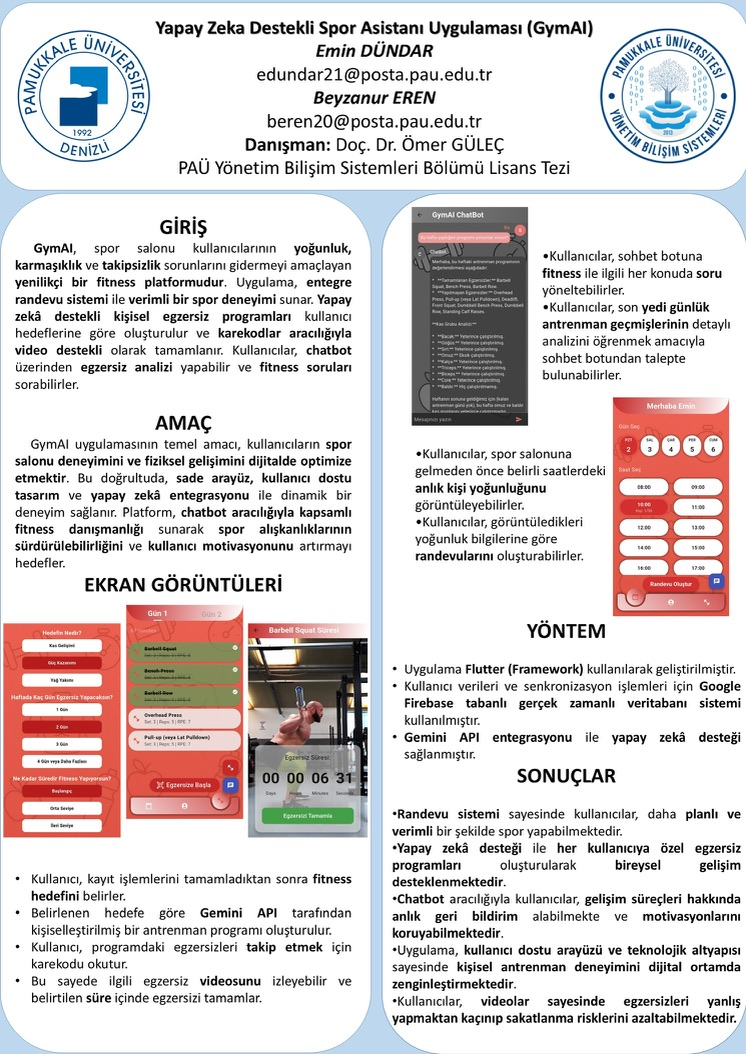
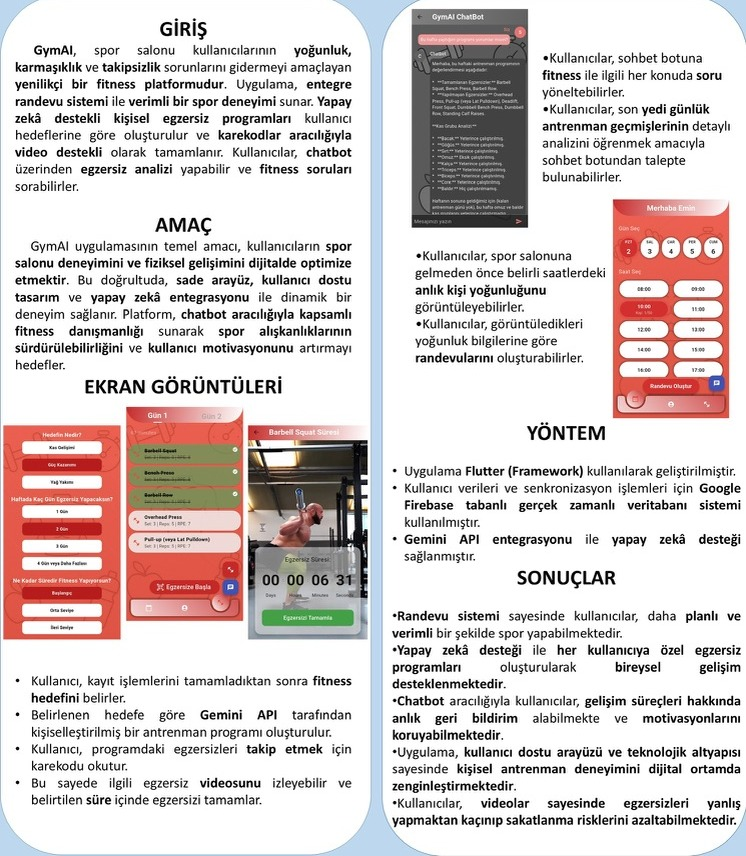
fix(case): crop thesis poster header, localized gallery alt text, new-tab cue, cursor scale init

diff --git a/content/projects.test.ts b/content/projects.test.ts
@@ -37,7 +37,7 @@ const metas = slugs.map((slug) => JSON.parse(readFileSync(join(dir, `${slug}.met
   featured?: boolean;
   order: number;
   cover?: { src: string };
-  gallery?: string[];
+  gallery?: { src: string; alt: { en: string; tr: string } }[];
 });
 
 describe("project content cross-references", () => {
@@ -49,15 +49,23 @@ describe("project content cross-references", () => {
     const manifest = JSON.parse(readFileSync("lib/media-manifest.json", "utf8")) as Record<string, unknown>;
     for (const m of metas) if (m.cover) expect(Object.keys(manifest), m.slug).toContain(m.cover.src);
   });
-  it("every gallery base is an image entry in the media manifest with its file on disk", () => {
+  it("every gallery image is in the media manifest with its file on disk and a distinct alt per locale", () => {
     const manifest = JSON.parse(readFileSync("lib/media-manifest.json", "utf8")) as Record<string, { widths?: number[] }>;
     for (const m of metas)
-      for (const base of m.gallery ?? []) {
-        const widths = manifest[base]?.widths ?? [];
-        expect(widths.length, `${m.slug}: ${base}`).toBeGreaterThan(0);
-        for (const w of widths) expect(existsSync(join("public", `${base}-${w}.webp`)), `${base}-${w}.webp`).toBe(true);
+      for (const g of m.gallery ?? []) {
+        const widths = manifest[g.src]?.widths ?? [];
+        expect(widths.length, `${m.slug}: ${g.src}`).toBeGreaterThan(0);
+        for (const w of widths) expect(existsSync(join("public", `${g.src}-${w}.webp`)), `${g.src}-${w}.webp`).toBe(true);
+        expect(g.alt.en.length, `${g.src} alt.en`).toBeGreaterThanOrEqual(5);
+        expect(g.alt.tr.length, `${g.src} alt.tr`).toBeGreaterThanOrEqual(5);
+        expect(g.alt.tr, `${g.src}: tr alt is a translation`).not.toBe(g.alt.en);
       }
-    expect(metas.find((m) => m.slug === "gymai")?.gallery).toEqual(["/media/gymai/poster", "/media/gymai/screens-right"]);
+    expect(metas.find((m) => m.slug === "gymai")?.gallery?.map((g) => g.src)).toEqual(["/media/gymai/poster", "/media/gymai/screens-right"]);
+  });
+  it("gymai thesis poster is the cropped one (header with names and e-mail addresses cut off)", () => {
+    // The uncropped 746×1054 source renders at 640×904; the crop starts below the header block.
+    const manifest = JSON.parse(readFileSync("lib/media-manifest.json", "utf8")) as Record<string, { height: number }>;
+    expect(manifest["/media/gymai/poster"]?.height).toBeLessThan(900);
   });
   it("featured set is geotrack, kipgoz, gymai, karaoke-sync", () => {
     expect(metas.filter((m) => m.featured).map((m) => m.slug).sort()).toEqual(["geotrack", "gymai", "karaoke-sync", "kipgoz"]);

diff --git a/app/[locale]/work/[slug]/page.tsx b/app/[locale]/work/[slug]/page.tsx
@@ -16,8 +16,8 @@ import { CaseNav } from "@/components/case/CaseNav";
 
 type Props = { params: Promise<{ locale: string; slug: string }> };
 
-// Every case page is complete static output. For a slug that was not prerendered the request waits for the full
-// render instead of streaming into a 200 fallback shell, so `notFound()` below is a real 404 status.
+// Forces the whole route to be prerendered; with cacheComponents this also makes unknown slugs return a real 404
+// (pinned by e2e/case.spec.ts).
 export const ensureStatic = "navigation";
 
 export function generateStaticParams() {
@@ -59,11 +59,11 @@ export default async function CasePage({ params }: Props) {
           {t("fallbackNote")}
         </p>
       )}
-      {/* The <h1> stays above the cover: it is the LCP element, the cover never is on a video case. */}
+      {/* The <h1> stays above the cover and is the LCP element; the cover is never fetched with priority. */}
       <CaseHeader project={project} facetLabels={facetLabels} />
       <div className={HERO_BOX}>
         <ViewTransition name={`cover-${project.slug}`} share="morph" default="none">
-          <MediaCover project={project} kind="hero" facetLabels={facetLabels} priority={project.cover?.type === "image"} />
+          <MediaCover project={project} kind="hero" facetLabels={facetLabels} />
         </ViewTransition>
       </div>
       <div className="mt-12 grid gap-12 md:mt-16 md:grid-cols-12 md:gap-x-6">
@@ -72,7 +72,7 @@ export default async function CasePage({ params }: Props) {
         </article>
         <CaseAside project={project} className="md:col-span-4" />
       </div>
-      {project.gallery && <CaseGallery title={project.title} bases={project.gallery} />}
+      {project.gallery && <CaseGallery items={project.gallery} locale={locale} />}
       <CaseNav prev={all[idx - 1]} next={all[idx + 1]} />
     </main>
   );

diff --git a/content/schema.test.ts b/content/schema.test.ts
@@ -56,10 +56,15 @@ describe("projectMetaSchema", () => {
   it("rejects cover.src with a file extension", () => {
     expect(projectMetaSchema.safeParse({ ...valid, cover: { type: "image", src: "/media/geotrack/cover.webp", frame: "phone" } }).success).toBe(false);
   });
-  it("accepts a gallery of media bases and rejects extensions or an empty list", () => {
-    const ok = projectMetaSchema.safeParse({ ...valid, gallery: ["/media/gymai/poster", "/media/gymai/screens-right"] });
-    expect(ok.success).toBe(true);
-    expect(projectMetaSchema.safeParse({ ...valid, gallery: ["/media/gymai/poster-640.webp"] }).success).toBe(false);
+  it("accepts a gallery of { src, alt per locale } and rejects extensions, missing or short alts, or an empty list", () => {
+    const alt = { en: "Thesis poster", tr: "Tez posteri" };
+    const item = { src: "/media/gymai/poster", alt };
+    expect(projectMetaSchema.safeParse({ ...valid, gallery: [item, { src: "/media/gymai/screens-right", alt }] }).success).toBe(true);
+    expect(projectMetaSchema.safeParse({ ...valid, gallery: [{ ...item, src: "/media/gymai/poster-640.webp" }] }).success).toBe(false);
+    expect(projectMetaSchema.safeParse({ ...valid, gallery: ["/media/gymai/poster"] }).success).toBe(false);
+    expect(projectMetaSchema.safeParse({ ...valid, gallery: [{ src: item.src }] }).success).toBe(false);
+    expect(projectMetaSchema.safeParse({ ...valid, gallery: [{ src: item.src, alt: { en: "Thesis poster" } }] }).success).toBe(false);
+    expect(projectMetaSchema.safeParse({ ...valid, gallery: [{ src: item.src, alt: { en: "abc", tr: "Tez posteri" } }] }).success).toBe(false);
     expect(projectMetaSchema.safeParse({ ...valid, gallery: [] }).success).toBe(false);
     expect(projectMetaSchema.parse(valid).gallery).toBeUndefined();
   });

diff --git a/components/case/CaseGallery.tsx b/components/case/CaseGallery.tsx
@@ -1,24 +1,26 @@
 import { getTranslations } from "next-intl/server";
+import type { Locale } from "@/i18n/routing";
+import type { Project } from "@/lib/content";
 import { imageFor } from "@/lib/media";
 
 /** Extra stills below the body. Images keep their intrinsic width (never upscaled), centered in a bordered box. */
-export async function CaseGallery({ title, bases }: { title: string; bases: string[] }) {
+export async function CaseGallery({ items, locale }: { items: NonNullable<Project["gallery"]>; locale: Locale }) {
   const t = await getTranslations("Case");
-  const images = bases.flatMap((base) => {
-    const img = imageFor(base);
-    return img ? [{ base, ...img }] : [];
+  const images = items.flatMap((item) => {
+    const img = imageFor(item.src);
+    return img ? [{ base: item.src, alt: item.alt[locale], ...img }] : [];
   });
   if (images.length === 0) return null;
   return (
     <section data-case-gallery aria-label={t("gallery")} className="mt-16 grid gap-4 border-t border-line pt-4 sm:grid-cols-2">
-      {images.map((img, i) => (
+      {images.map((img) => (
         <figure key={img.base} className="m-0 flex items-center justify-center border border-line bg-surface p-4 md:p-8">
           {/* eslint-disable-next-line @next/next/no-img-element -- pre-generated responsive set */}
           <img
             src={img.src}
             srcSet={img.srcSet}
             sizes="(min-width: 640px) 50vw, 100vw"
-            alt={`${title} — ${i + 1}`}
+            alt={img.alt}
             width={img.width}
             height={img.height}
             loading="lazy"

diff --git a/e2e/case.spec.ts b/e2e/case.spec.ts
@@ -20,7 +20,7 @@ test.describe("/work/[slug]", () => {
     const repos = page.getByRole("link", { name: /repository/i });
     await expect(repos).toHaveCount(4);
     await expect(repos.first()).toHaveAttribute("href", /github\.com\/emindundar\/map_tracking$/);
-    const named = page.getByRole("link", { name: "Repository: map_tracking", exact: true });
+    const named = page.getByRole("link", { name: "Repository: map_tracking (opens in a new tab)", exact: true });
     await expect(named).toHaveAttribute("target", "_blank");
     await expect(named).toHaveAttribute("rel", "noreferrer noopener");
     await page.goto("/en/work/karaoke-sync");
@@ -72,7 +72,10 @@ test.describe("/work/[slug]", () => {
     await expect(page.locator("[data-case-credits]")).toContainText("Pamukkale");
     const gallery = page.locator("[data-case-gallery] img");
     await expect(gallery).toHaveCount(2);
-    await expect(gallery.first()).toHaveAttribute("alt", /— 1$/);
+    await expect(gallery.first()).toHaveAttribute("alt", "GymAI tez posteri: amaç, yöntem ve sonuç bölümleri");
+    await page.goto("/en/work/gymai");
+    await expect(gallery.first()).toHaveAttribute("alt", "GymAI thesis poster: goal, method and results sections");
+    await expect(gallery.last()).toHaveAttribute("alt", "GymAI screens: fitness chatbot and gym occupancy with appointment booking");
     await expect(gallery.first()).toHaveAttribute("loading", "lazy");
   });
 

diff --git a/components/case/CaseAside.tsx b/components/case/CaseAside.tsx
@@ -12,11 +12,12 @@ function repoName(url: string): string {
   return new URL(url).pathname.split("/").filter(Boolean).pop() ?? url;
 }
 
-function External({ href, children }: { href: string; children: React.ReactNode }) {
+function External({ href, newTab, children }: { href: string; newTab: string; children: React.ReactNode }) {
   return (
     <a href={href} target="_blank" rel="noreferrer noopener" className={LINK}>
       {children}
       <span aria-hidden="true">↗</span>
+      <span className="sr-only"> ({newTab})</span>
     </a>
   );
 }
@@ -68,14 +69,14 @@ export async function CaseAside({ project, className }: { project: Project; clas
           <ul className="m-0 mt-1 list-none p-0">
             {links.repo?.map((href) => (
               <li key={href}>
-                <External href={href}>
+                <External href={href} newTab={t("newTab")}>
                   {t("repo")}: {repoName(href)}
                 </External>
               </li>
             ))}
             {single.map(({ key, href }) => (
               <li key={key}>
-                <External href={href}>
+                <External href={href} newTab={t("newTab")}>
                   {t(key)}: {new URL(href).host}
                 </External>
               </li>

diff --git a/e2e/cursor.spec.ts b/e2e/cursor.spec.ts
@@ -3,10 +3,22 @@ import { test, expect } from "@playwright/test";
 test.describe("custom cursor", () => {
   test("desktop with motion: cursor root exists and body opts out of native cursor", async ({ page, isMobile }) => {
     test.skip(isMobile, "fine pointer only");
+    const resetWarnings: string[] = [];
+    page.on("console", (m) => {
+      if (/not eligible for reset/i.test(m.text())) resetWarnings.push(m.text());
+    });
     await page.emulateMedia({ reducedMotion: "no-preference" });
     await page.goto("/en");
     await expect(page.locator("[data-cursor-root]")).toHaveCount(1);
     await expect(page.locator("body")).toHaveAttribute("data-cursor", "custom");
+    // Moving onto a link scales the ring; GSAP must not warn about an unset starting scale.
+    const link = page.getByRole("link", { name: /explore work/i });
+    await page.mouse.move(5, 300);
+    await link.hover();
+    await expect
+      .poll(() => page.locator("[data-cursor-root] > div").last().evaluate((el) => new DOMMatrix(getComputedStyle(el).transform).a))
+      .toBeGreaterThan(1.5);
+    expect(resetWarnings).toEqual([]);
   });
 
   test("mobile (coarse pointer): no custom cursor", async ({ page, isMobile }) => {

diff --git a/components/motion/Cursor.tsx b/components/motion/Cursor.tsx
@@ -30,7 +30,15 @@ export function Cursor() {
       const dy = gsap.quickTo(dotEl, "y", { duration: 0.08 });
       const rx = gsap.quickTo(ringEl, "x", { duration: 0.35, ease: "power3.out" });
       const ry = gsap.quickTo(ringEl, "y", { duration: 0.35, ease: "power3.out" });
-      const scaleTo = gsap.quickTo(ringEl, "scale", { duration: 0.25 });
+      // quickTo drives one numeric property; "scale" is an alias for two, which GSAP rejects
+      // ("scale not eligible for reset") and then never scales. Hence one setter per axis.
+      gsap.set(ringEl, { scale: 1 });
+      const sx = gsap.quickTo(ringEl, "scaleX", { duration: 0.25 });
+      const sy = gsap.quickTo(ringEl, "scaleY", { duration: 0.25 });
+      const scaleTo = (v: number) => {
+        sx(v);
+        sy(v);
+      };
       let hovering = false;
       let visible = false;
       const show = (v: boolean) => {

diff --git a/content/schema.ts b/content/schema.ts
@@ -20,8 +20,16 @@ export const projectMetaSchema = s.object({
       frame: s.enum(["phone", "browser", "none"]),
     })
     .optional(),
-  /** Extra image bases (keys of lib/media-manifest.json) shown below the case body. */
-  gallery: s.array(s.string().regex(MEDIA_BASE, "gallery: /media/<slug>/<name> without extension")).min(1).optional(),
+  /** Extra images shown below the case body: a manifest base (lib/media-manifest.json) and a described alt per locale. */
+  gallery: s
+    .array(
+      s.object({
+        src: s.string().regex(MEDIA_BASE, "gallery.src: /media/<slug>/<name> without extension"),
+        alt: s.object({ en: s.string().min(5), tr: s.string().min(5) }),
+      }),
+    )
+    .min(1)
+    .optional(),
   client: s.string().max(80).optional(),
   credits: s.string().max(200).optional(),
   links: s

diff --git a/components/mdx/components.tsx b/components/mdx/components.tsx
@@ -1,4 +1,5 @@
 import type { ComponentProps } from "react";
+import { useTranslations } from "next-intl";
 import { Link } from "@/i18n/navigation";
 import { slugify } from "@/lib/slugify";
 import { FlowDiagram } from "@/components/ui/FlowDiagram";
@@ -14,11 +15,13 @@ function textOf(node: React.ReactNode): string {
 
 function A({ href = "", children, ...rest }: ComponentProps<"a">) {
   const cls = "text-accent underline underline-offset-4";
+  const t = useTranslations("Case");
   const external = /^(https?:)?\/\//.test(href);
   if (external) {
     return (
       <a href={href} className={cls} target="_blank" rel="noreferrer noopener" {...rest}>
         {children}
+        <span className="sr-only"> ({t("newTab")})</span>
       </a>
     );
   }

diff --git a/app/globals.css b/app/globals.css
@@ -122,6 +122,15 @@
     font-weight: 700;
     color: var(--fg);
   }
+  .prose-brutal pre {
+    margin-block: 1.5rem;
+    overflow-x: auto;
+    border: 1px solid var(--line);
+    background-color: var(--surface);
+    padding: 1rem;
+    font-family: var(--font-mono);
+    font-size: 0.875rem;
+  }
   .prose-brutal :not(pre) > code {
     border: 1px solid var(--line);
     background-color: var(--surface);
